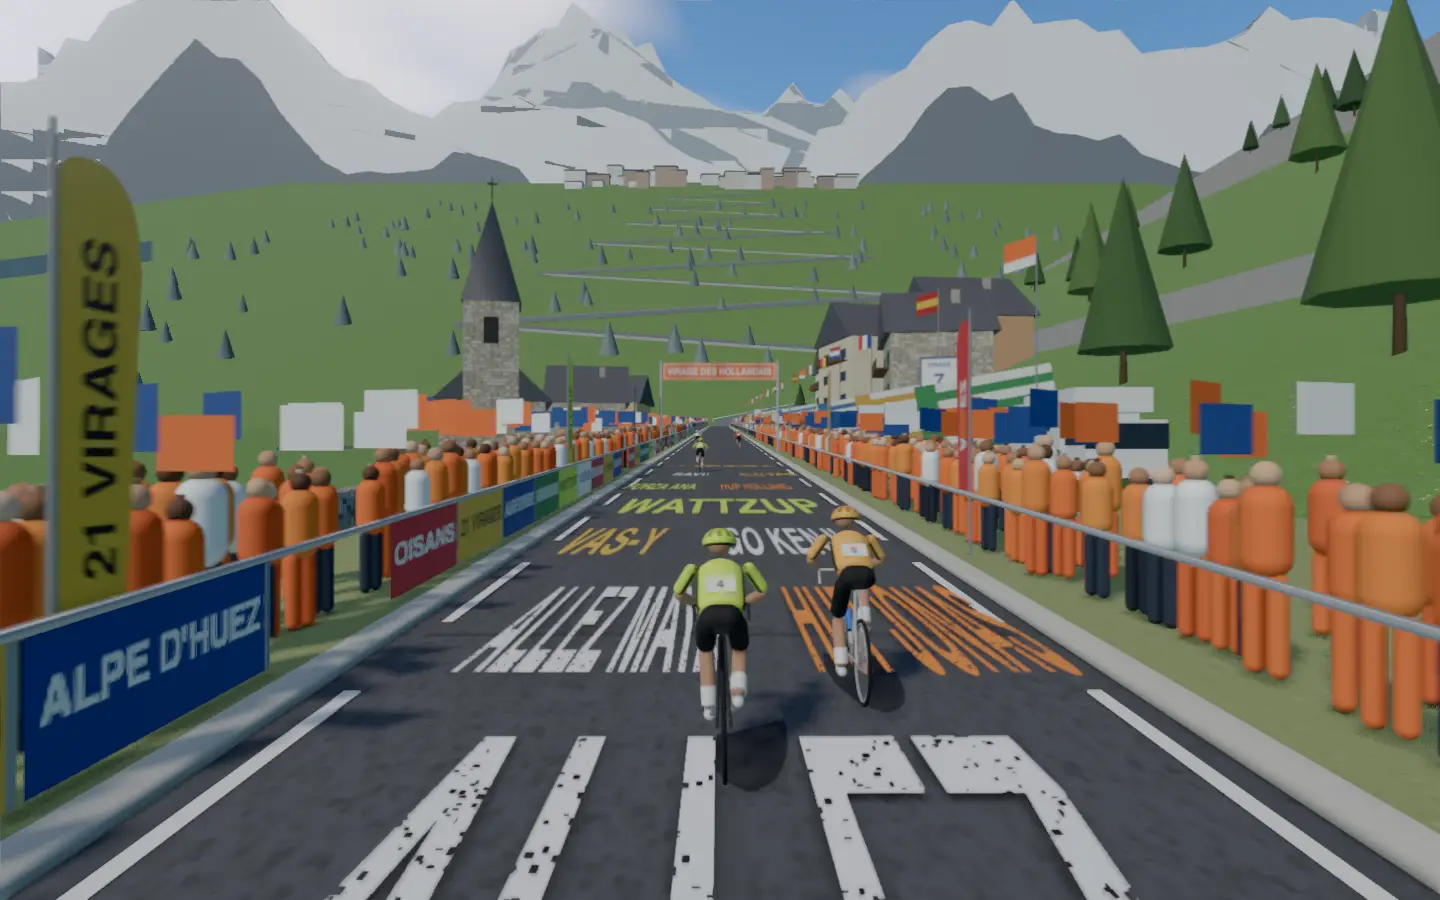
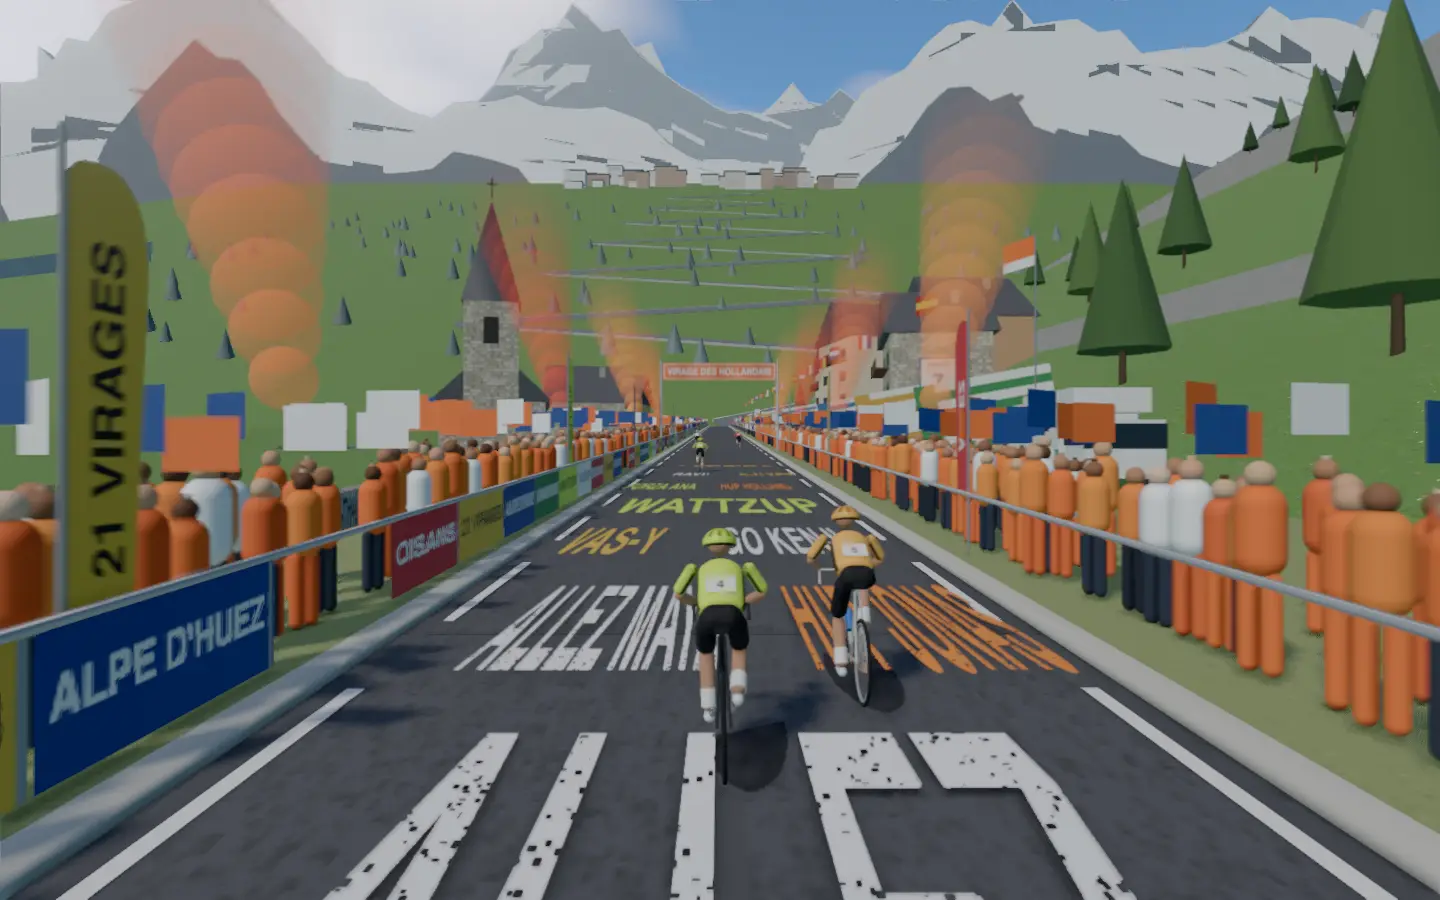
Light flares over Dutch Corner on the Alpe

diff --git a/frontend/projects/wattzup/src/app/core/world-alpe.ts b/frontend/projects/wattzup/src/app/core/world-alpe.ts
@@ -23,6 +23,7 @@ import {
   PlaneGeometry,
   RepeatWrapping,
   Shape,
+  SphereGeometry,
   type Texture,
 } from 'three/webgpu';
 import {
@@ -189,6 +190,8 @@ export class AlpeStreet implements SceneStreet {
   private readonly props: Prop[] = [];
   private readonly horizon = new Group();
   private time = 0;
+  /** The flares' smoke: each puff, the side it drifts to and where it is in its rise. */
+  private readonly smoke: { mesh: Mesh; side: number; phase: number }[] = [];
   private readonly unit = new BoxGeometry(1, 1, 1);
   private readonly flagMaterials = ['#1d3c8f', '#ffffff', '#d8283a', '#f2c230'].map(
     (colour) => new MeshStandardMaterial({ color: colour, side: DoubleSide, roughness: 0.8 }),
@@ -240,6 +243,7 @@ export class AlpeStreet implements SceneStreet {
     this.addVans();
     this.addBendSigns();
     this.addChurch();
+    this.addFlares();
     this.addVillage();
     this.addLarches();
     this.addStreetBanners(roadHalf);
@@ -251,6 +255,13 @@ export class AlpeStreet implements SceneStreet {
   /** The street's clock, in seconds; held at 0 for reduced motion. */
   setTime(seconds: number): void {
     this.time = seconds;
+    // Each puff rises from its flare, swells and thins, drifting away from the road.
+    for (const puff of this.smoke) {
+      const u = (seconds * 0.16 + puff.phase) % 1;
+      puff.mesh.position.set(puff.side * u * 2.2, 2.3 + u * 9, -u * 1.2);
+      puff.mesh.scale.setScalar(0.35 + u * 1.9);
+      (puff.mesh.material as MeshStandardMaterial).opacity = 0.42 * (1 - u) ** 1.5;
+    }
   }
 
   lay(points: readonly StreetPoint[], s: number): void {
@@ -644,6 +655,54 @@ export class AlpeStreet implements SceneStreet {
       this.group.add(g);
       this.props.push({ mesh: g, offset, every: LOOP, x, rise: x < 0 ? rise(x) : rise(x) });
     });
+  }
+
+  /**
+   * Dutch Corner's flares: fans in the orange crowd holding burning flares up over their heads,
+   * each pouring a plume of orange or red smoke that rises over the bend and drifts away.
+   */
+  private addFlares(): void {
+    const random = seeded(2601);
+    const puff = new SphereGeometry(1, 10, 8);
+    const stick = new CylinderGeometry(0.04, 0.04, 0.4, 6);
+    this.disposables.push(puff, stick);
+    const glow = this.material({
+      color: 0xff3a1a,
+      emissive: new Color(0xff5a1a),
+      emissiveIntensity: 2,
+    });
+    const colours = [0xff6a1a, 0xff8a2a, 0xe8401e];
+    for (let k = 0; k < 8; k++) {
+      const side = k % 2 ? 1 : -1;
+      const flare = new Group();
+      const held = new Mesh(stick, glow);
+      held.position.y = 2.1;
+      flare.add(held);
+      const colour = colours[k % colours.length]!;
+      for (let p = 0; p < 14; p++) {
+        const material = this.material({
+          color: colour,
+          emissive: new Color(colour),
+          emissiveIntensity: 0.7,
+          transparent: true,
+          opacity: 0.5,
+          depthWrite: false,
+          roughness: 1,
+        });
+        const mesh = new Mesh(puff, material);
+        flare.add(mesh);
+        this.smoke.push({ mesh, side, phase: p / 14 + random() * 0.02 });
+      }
+      this.group.add(flare);
+      this.props.push({
+        mesh: flare,
+        offset: DUTCH - 36 + k * 10 + random() * 4,
+        every: LOOP,
+        x: side * (CROWD_NEAR + 0.6 + random() * 1.2),
+        rise: 0,
+      });
+    }
+    this.setTime(this.time);
   }
 
   /** Larches and spruces dotted up the meadow on the right and down the slope on the left. */

diff --git a/docs/detailed-designs/world-ride/draw-class-scene/README.md b/docs/detailed-designs/world-ride/draw-class-scene/README.md
@@ -350,7 +350,7 @@ None.
   - the road between low kerbs with broken white edge lines, the tarmac covered in painted names and cries, a row every 6 m of two names in staggered lanes in white, yellow, orange, lime, red and blue (ALLEZ MAYA, HUP JONAS, VAS-Y, GO KENJI, FORZA ANA, HUP HOLLAND and more), every third row a cry painted big right across the road (ALLEZ, WATTZUP, 21 VIRAGES, HUP HUP HUP), race barriers hung with the ride's banners (ALPE D'HUEZ, 21 VIRAGES, OISANS, ISÈRE, WATTZUP, GRANDES ROUSSES), the kit's feather flags every 16 m along both and cloth banners across it, VIRAGE DES HOLLANDAIS over Dutch Corner;
   - on the right a grassy verge packed nose to tail with camper vans, white and cream coachbuilt bodies with a coloured stripe, striped awnings out towards the road with chairs under them and national flags on poles, then the mountainside rising at 1 in 2 in alpine meadow with a band of grey rock, larches and spruces dotted up it;
   - on the left a strip of verge, a low dry-stone wall, and past it the slope falling away to the valley floor far below, spruces down it;
-  - fans packed behind the barriers at every bend (the shared crowd), thinning only between bends, and at Dutch Corner, in the opening view, a second shared crowd all in orange with orange and red-white-blue flags;
+  - fans packed behind the barriers at every bend (the shared crowd), thinning only between bends, and at Dutch Corner, in the opening view, a second shared crowd all in orange with orange and red-white-blue flags, eight fans among them holding burning flares aloft, each pouring a column of orange or red smoke that rises about 11 m, swelling and thinning as it drifts away from the road (`setTime` moves it, so it holds still for reduced motion);
   - at every bend, 125 m apart, a white VIRAGE sign with a blue border on the mountain side, counting down from bend 7 at Dutch Corner, with its altitude;
   - the church of Huez on the outside of Dutch Corner, below the wall: a stone nave under a steep slate roof, a square bell tower with louvred openings under a slate spire and its cross, and a low graveyard wall; round it the village of Huez, eleven houses of grey stone or ochre and cream render stepping down the valley side on stone undercrofts and up the mountain side, each under a steep slate gable with a chimney, shuttered windows on every floor and a timber balcony facing the road;
   - 280 m ahead, at the road's end, the mountainside rising at 22°, its meadows and rock bands crossed by fourteen hairpin legs stacked one above another with low walls on their outer edges, firs between them; at the top the ski station's blocks and chalets, white and timber with rows of balconies; behind it the Grandes Rousses about 1,500 m above the station in two jagged ridgelines, the near one dark rock with snowfields draped down from its crests and glacier tongues reaching down the gullies under its cols, the far one paler in the haze; to the left the valley's far side, all hazed by hand. Everything along the road is hidden past the face's foot.

diff --git a/docs/class-worlds.md b/docs/class-worlds.md
@@ -34,7 +34,7 @@ Every class in `frontend/public/classes.json`, with its World Ride scene. Render
 | 28 | Easy Riding | Napa Vineyards | 80% | Rows of vines climb the golden hills either side of the valley road on a warm Californian afternoon, past oak-shaded stone wineries and their tasting terraces toward a mission-style winery with a bell tower on a knoll ahead. The three-minute warm-up rolls between the vine rows, the short vineyard rises climb past the stone wineries under the oaks, and the two-minute pushes ride on toward the bell tower. |
 | 29 | Quick HIIT Sprint Workout | Las Vegas Strip | 70% | Neon casinos and dancing fountains after midnight; sprint from light to light down the boulevard. |
 | 30 | Super High Cadence Sprints | Shibuya Crossing (concept) |  | Tokyo in neon rain; spin fast through the scramble beneath towering video screens. |
-| 31 | Elevate Your Climbing Power | Alpe d'Huez | 79% | Twenty-one numbered hairpins stack up the mountainside above Bourg-d'Oisans on a blazing July afternoon, the tarmac covered in painted names and fans and camper vans packed onto every bend under the snowy peaks of the Grandes Rousses. The two-minute warm-up rolls out of the valley, each one-minute attack kicks round a hairpin through the orange roar of Dutch Corner by the church of Huez, and the two-minute blocks grind up the steep ramps toward the ski station at the top. |
+| 31 | Elevate Your Climbing Power | Alpe d'Huez | 80% | Twenty-one numbered hairpins stack up the mountainside above Bourg-d'Oisans on a blazing July afternoon, the tarmac covered in painted names and fans and camper vans packed onto every bend under the snowy peaks of the Grandes Rousses. The two-minute warm-up rolls out of the valley, each one-minute attack kicks round a hairpin through the orange roar of Dutch Corner by the church of Huez, and the two-minute blocks grind up the steep ramps toward the ski station at the top. |
 | 32 | High Power Tempo With Short Sprints | Route 66 Desert | 72% | Arizona's open highway, red mesas and chrome diners; hold tempo, then sprint for each roadside sign. |
 | 33 | Spicy Maximum Minute Efforts | Día de Muertos Parade (concept) |  | Marigolds, sugar skulls and giant skeletons along Mexico City's Paseo de la Reforma. |
 | 34 | Short, Sharp & Hard Efforts | Montmartre (concept) |  | Paris cobbles winding up to Sacré-Cœur; short, sharp kicks past cafés and painters. |
